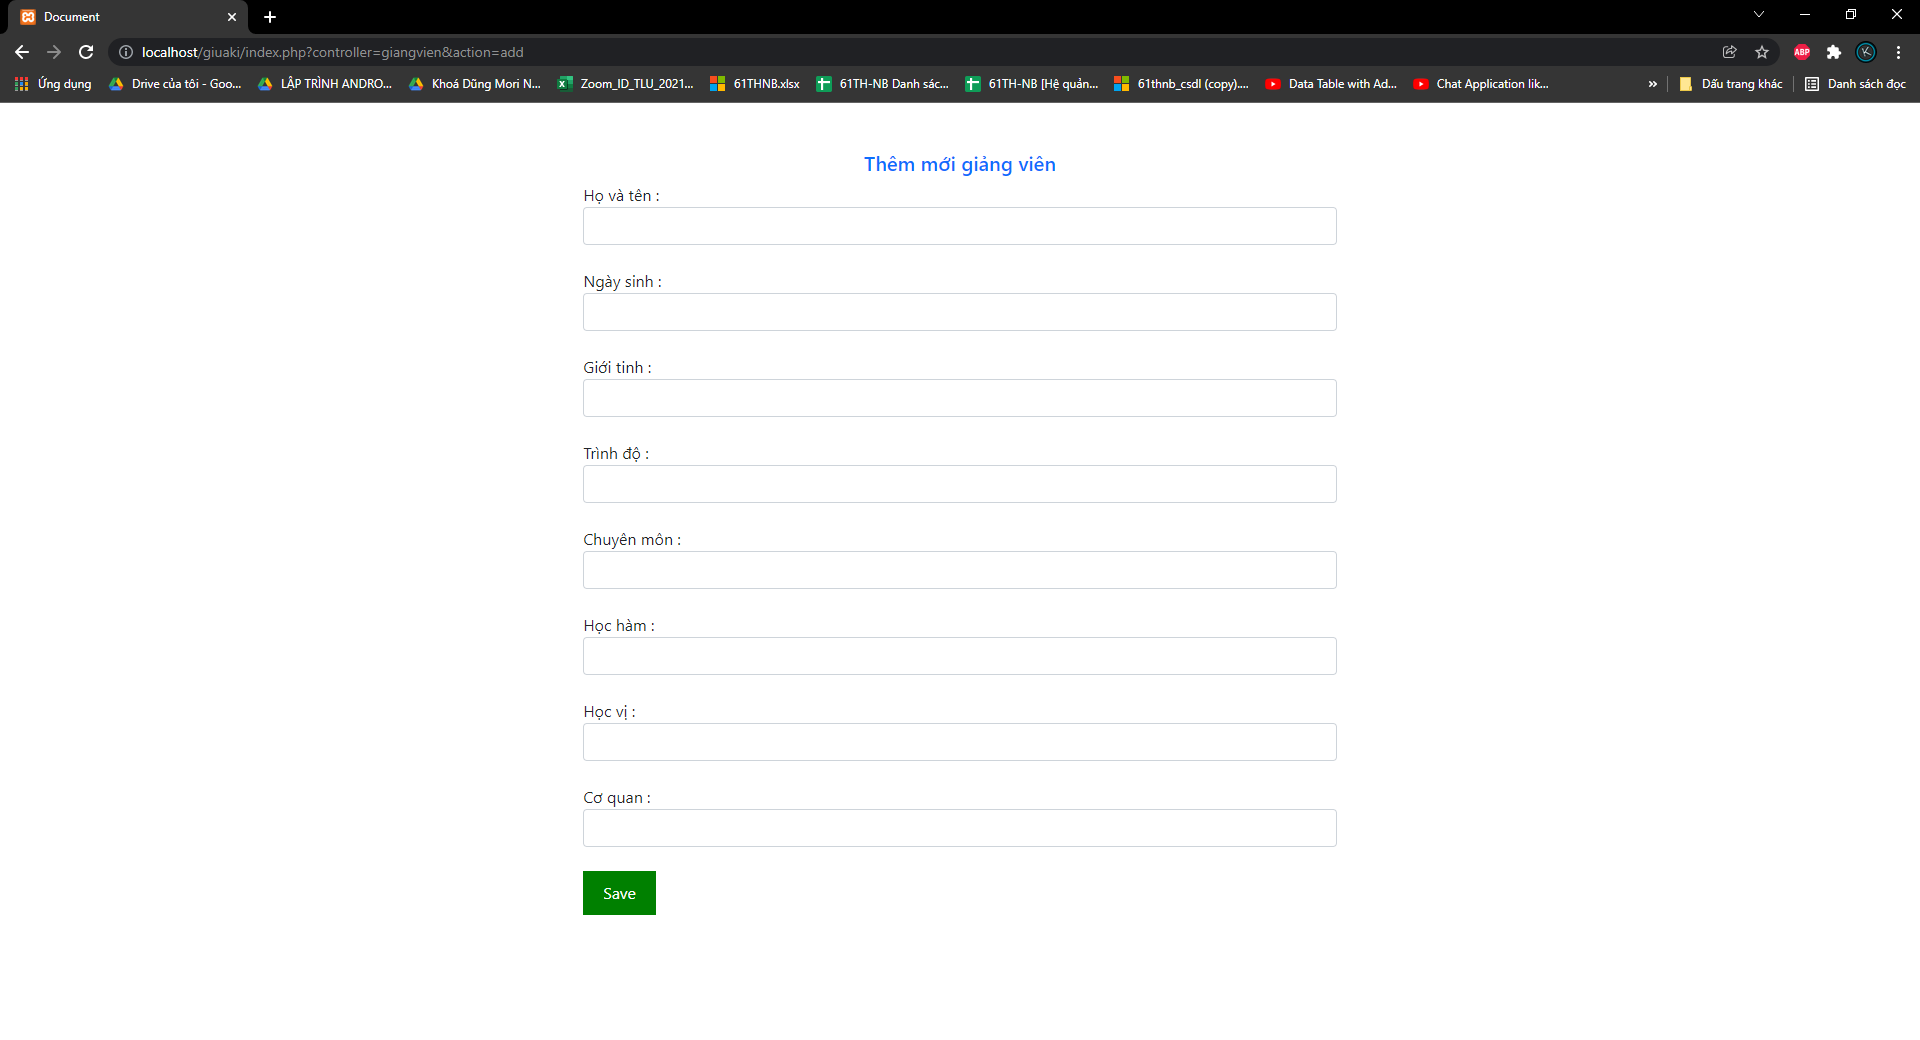
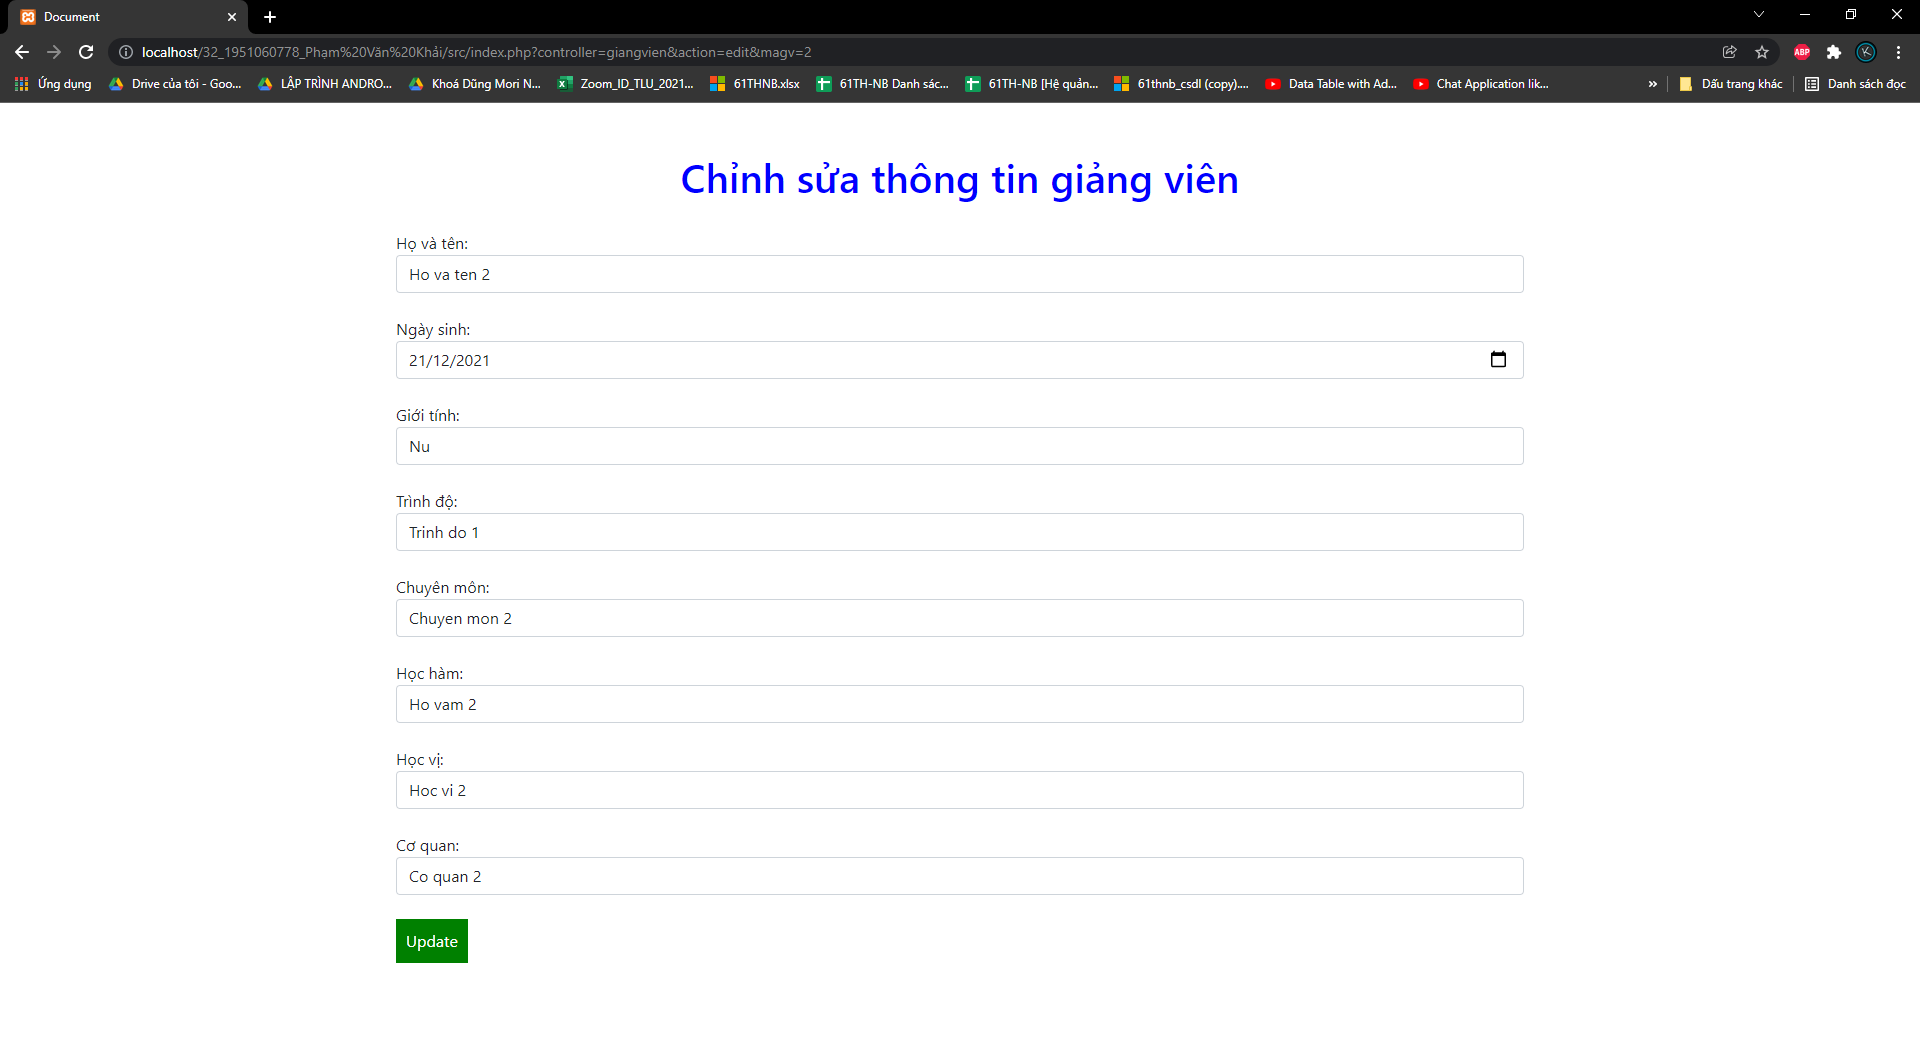
final

diff --git a/src/views/giangviens/edit.php b/src/views/giangviens/edit.php
@@ -7,7 +7,7 @@
     <?php echo $error; ?>
 </div>
 <div style = "width:60%" class="container">
-    <h1 style="display: flex;align-items: center;justify-content: center;margin-bottom:30px;margin-top:50px;color:green">Chỉnh sửa thông tin giảng viên</h1>
+    <h1 style="display: flex;align-items: center;justify-content: center;margin-bottom:30px;margin-top:50px;color:blue">Chỉnh sửa thông tin giảng viên</h1>
 <form action="" method="post">
 Họ và tên:
     <input class="form-control" type="text"
@@ -17,7 +17,7 @@ Họ và tên:
     />
     <br />
     Ngày sinh:
-    <input class="form-control" type="text"
+    <input class="form-control" type="date"
            name="ngaysinh"
            value="<?php
            echo isset($_POST['ngaysinh']) ? $_POST['ngaysinh'] : $giangvien['ngaysinh']?>"
@@ -65,6 +65,6 @@ Họ và tên:
            echo isset($_POST['coquan']) ? $_POST['coquan'] : $giangvien['coquan']?>"
     />
     <br />
-    <input type="submit" name="submit" value="Update" />
+    <input style="border:none;   background-color: green;color: white;;padding:10px" type="submit" name="submit" value="Update" />
 </form>
 </div>

diff --git a/src/views/giangviens/index.php b/src/views/giangviens/index.php
@@ -6,7 +6,8 @@ require "header.php";
 
 <div class="container">
     <h1 style="display: flex;align-items: center;justify-content: center;margin-bottom:30px;margin-top:50px; color:blue">Danh sách giảng viên</h1>
-<table border="1" cellspacing="0" cellpadding="15">
+<table class="table" border="1" cellspacing="0" cellpadding="15">
+<thead class="thead-dark">
     <tr>
         <th scope="col">Mã giảng viên</th>
         <th scope="col">Họ và tên</th>
@@ -21,6 +22,7 @@ require "header.php";
         
         
     </tr>
+    </thead>
     <?php if (!empty($giangviens)): ?>
         <?php foreach ($giangviens AS $giangvien) : ?>
             <tr>
@@ -42,7 +44,6 @@ require "header.php";
                     $urlDelete =
                         "index.php?controller=giangvien&action=delete&magv=" . $giangvien['magv'];
                     ?>
-                    <a href="<?php echo $urlDetail?>">Chi tiết</a> &nbsp;
                     <a href="<?php echo $urlEdit?>">Edit</a> &nbsp;
                     <a onclick="return confirm('Bạn chắc chắn muốn xóa?')"
                        href="<?php echo $urlDelete?>">

diff --git a/src/views/giangviens/add.php b/src/views/giangviens/add.php
@@ -19,7 +19,7 @@
     </div>
     <br />
     Ngày sinh :
-    <input type="text" class="form-control" name="ngaysinh" value="" />
+    <input type="date" class="form-control" name="ngaysinh" value="" />
     <br />
     Giới tinh :
     <input type="text" class="form-control" name="gioitinh" value="" />
